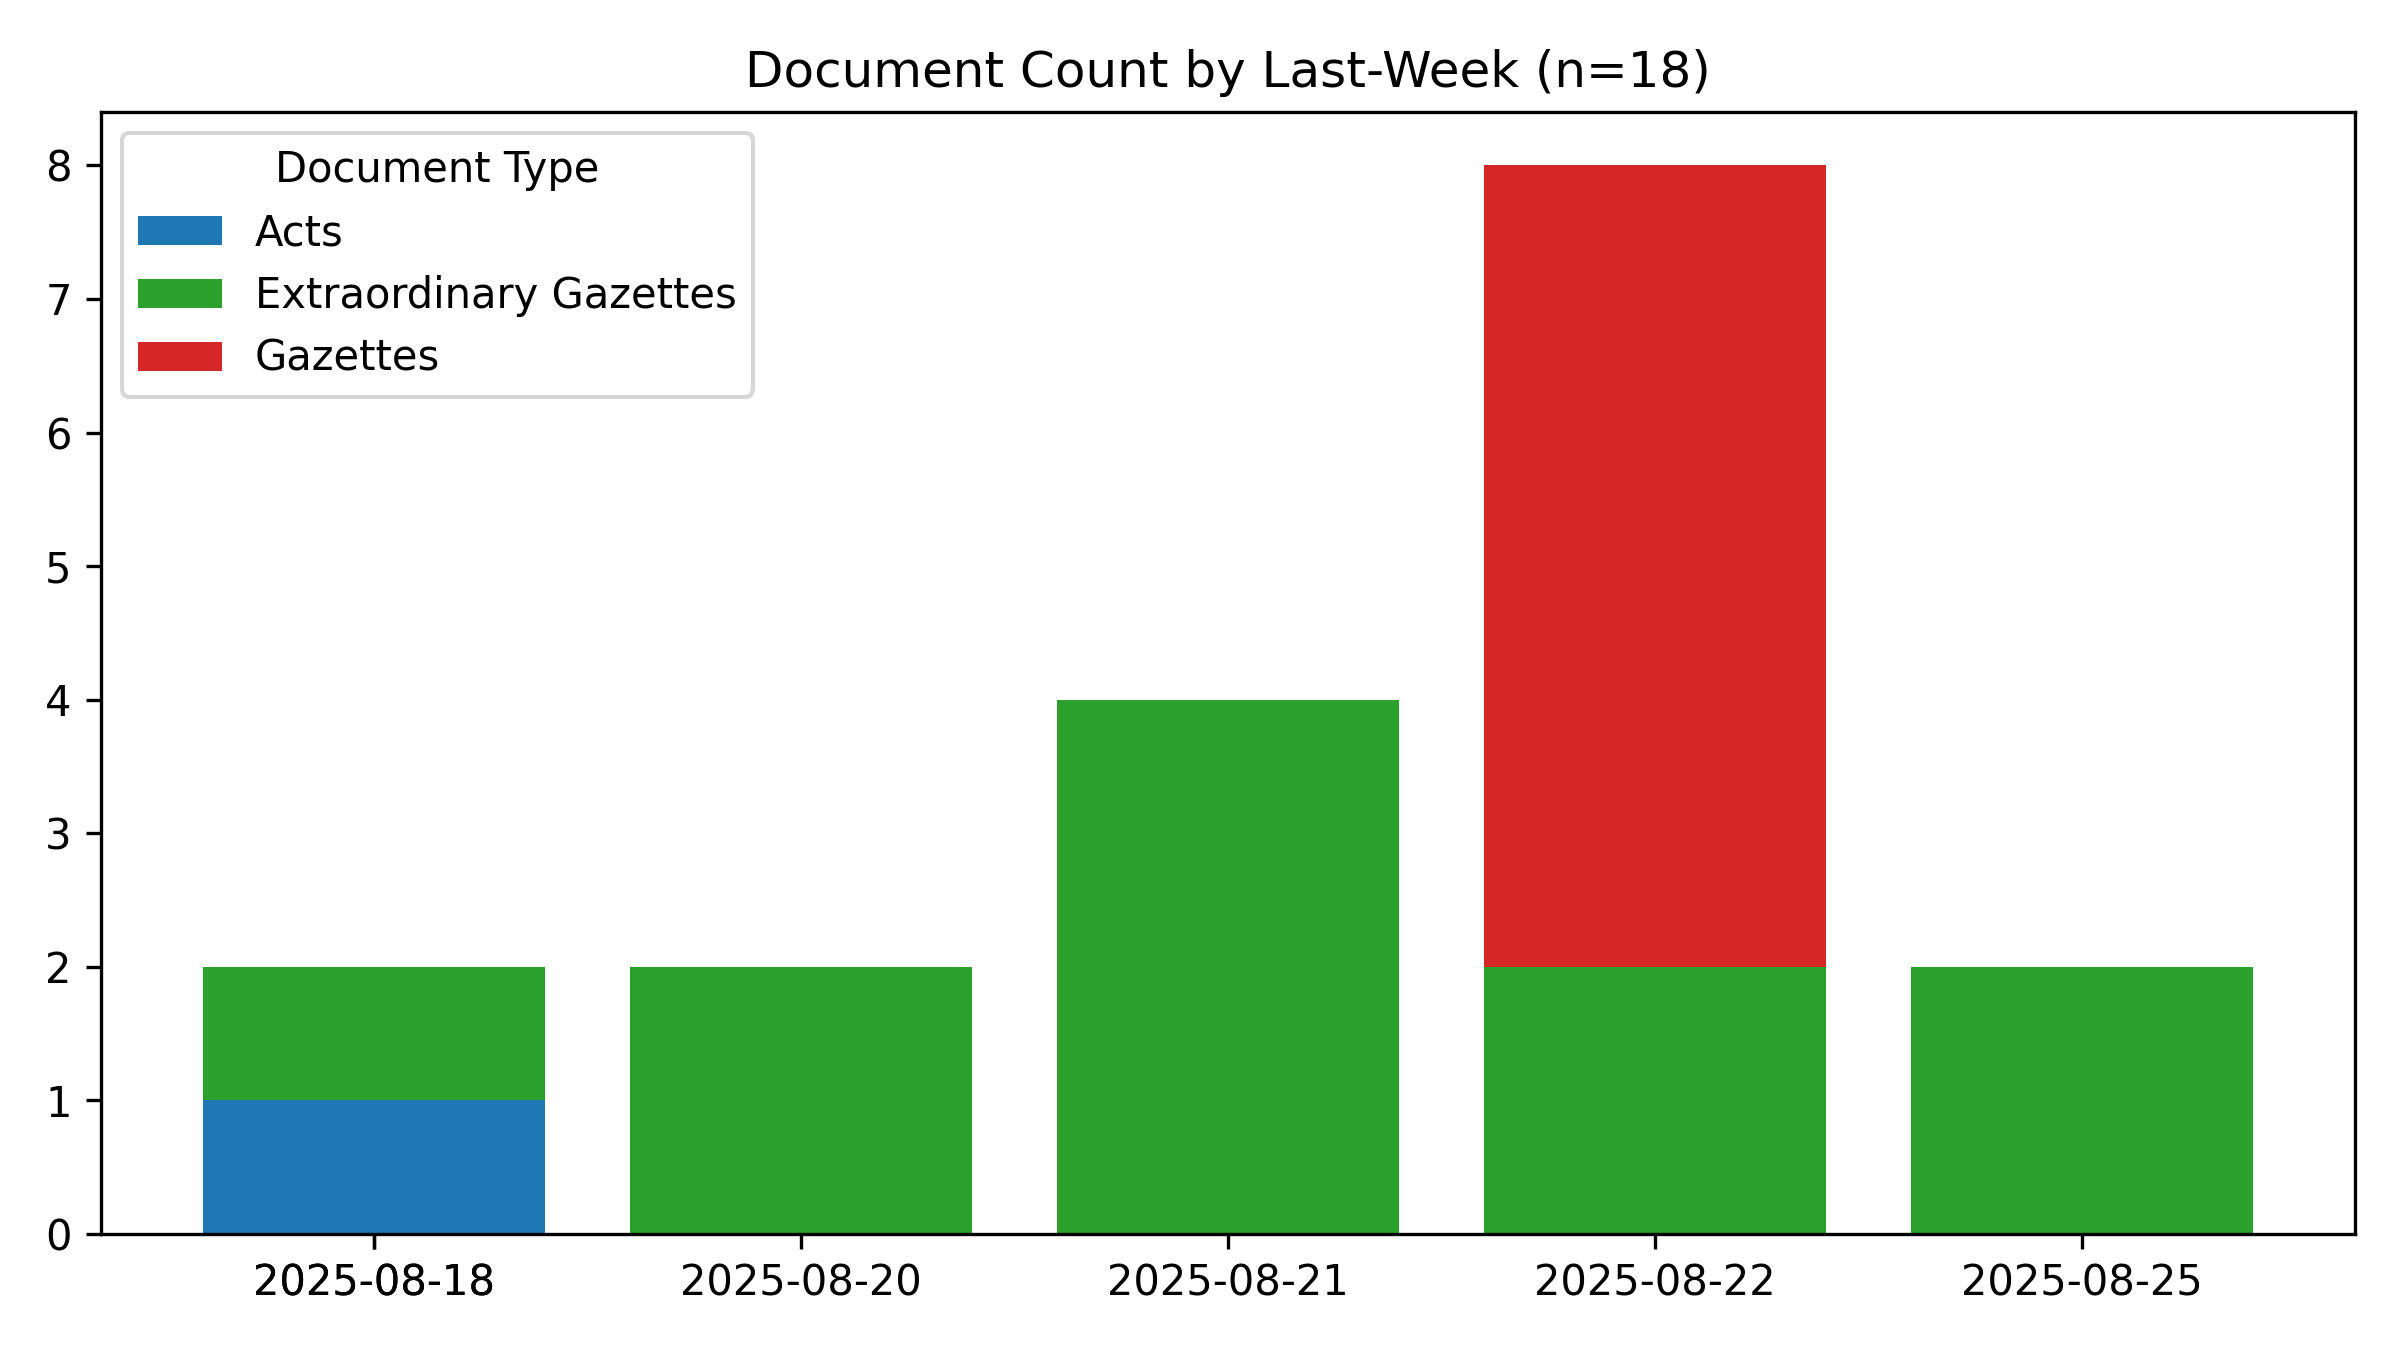
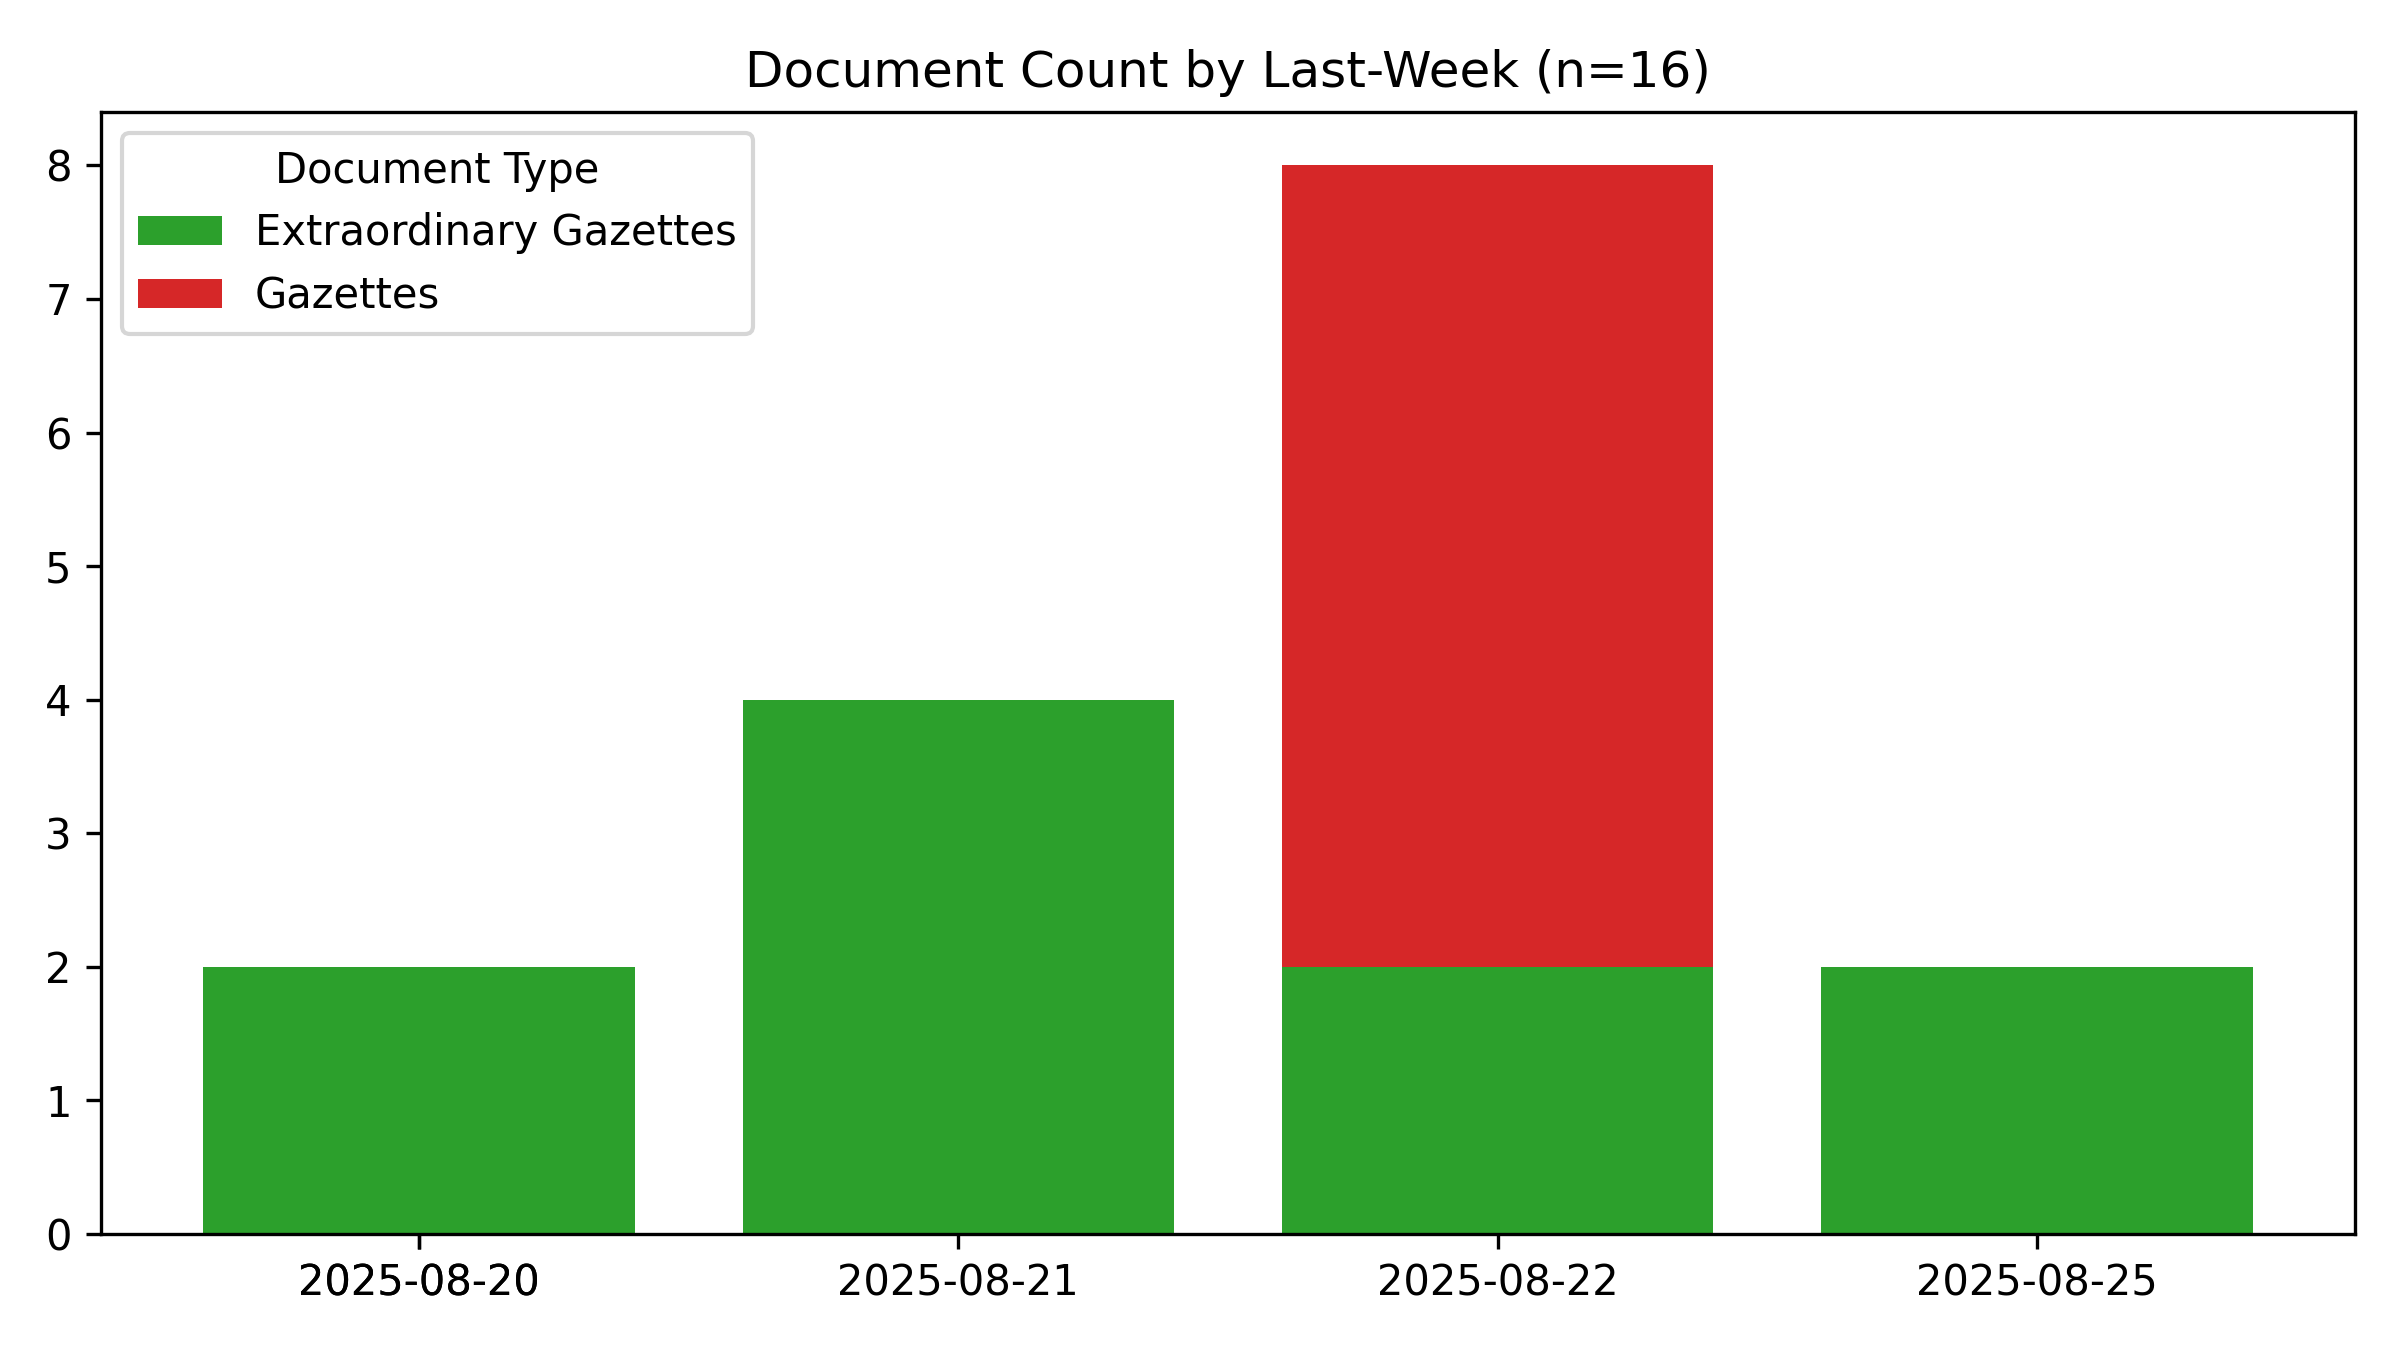
🤖 [build_readme.yml] 2025-08-26-0015

Changed region(s): [[0.0625, 0.1244, 0.9062, 0.9644], [0.0312, 0.1556, 0.3125, 0.28], [0.6875, 0.0311, 0.7188, 0.0622]]

diff --git a/README.md b/README.md
@@ -1,6 +1,6 @@
 # #SriLanka 🇱🇰 - Legal Documents #Dataset
 
-*Last Updated **2025-08-26 05:13:20**.*
+*Last Updated **2025-08-26 05:45:26**.*
 
 **44,427** documents (24.3 MB), from 1981-01-22 to 2025-08-25.
 
@@ -54,7 +54,7 @@ For best results, use a desktop browser.
 
 ## Recent Documents (Published during the last 7 days)
 
-**18** Documents
+**16** Documents
 
 - 🚨 [2025-08-25] [Ministry of Youth Affairs and Sports - Regulations Made by the Minister of Youth Affairs and Sports under Sections 32 & 33 of Sports Law No. 25 of 1973](https://github.com/nuuuwan/lk_legal_docs_data/tree/data_2020s/data/extra-gazettes/2025/2451-09)
 - 🚨 [2025-08-25] [Sri Lanka Customs - Rates of Exchange with effect from 25.08.2025 to 31.08.2025](https://github.com/nuuuwan/lk_legal_docs_data/tree/data_2020s/data/extra-gazettes/2025/2451-01)
@@ -72,5 +72,3 @@ For best results, use a desktop browser.
 - 🚨 [2025-08-21] [Ministry of Defence - Amendment to the Consolidated List under Regulation 4 (2) (B) United Nations Regulations No. 2 of 2012](https://github.com/nuuuwan/lk_legal_docs_data/tree/data_2020s/data/extra-gazettes/2025/2450-39)
 - 🚨 [2025-08-20] [Presidential- Appointed of the Inspector General of Police](https://github.com/nuuuwan/lk_legal_docs_data/tree/data_2020s/data/extra-gazettes/2025/2450-28)
 - 🚨 [2025-08-20] [Presidential Secretariat- Establishment of a Presidential Task Force for the Implementation of the Sri Lanka Tourism Development Programme](https://github.com/nuuuwan/lk_legal_docs_data/tree/data_2020s/data/extra-gazettes/2025/2450-27)
-- 🚨 [2025-08-18] [Sri Lanka Customs- Rates of Exchange with effect from 18.08.2025 to 24.05.2025](https://github.com/nuuuwan/lk_legal_docs_data/tree/data_2020s/data/extra-gazettes/2025/2450-01)
-- 🏛 [2025-08-18] [Sri Lanka Electricity (Amendment)](https://github.com/nuuuwan/lk_legal_docs_data/tree/data_2020s/data/acts/2025/14-2025)
